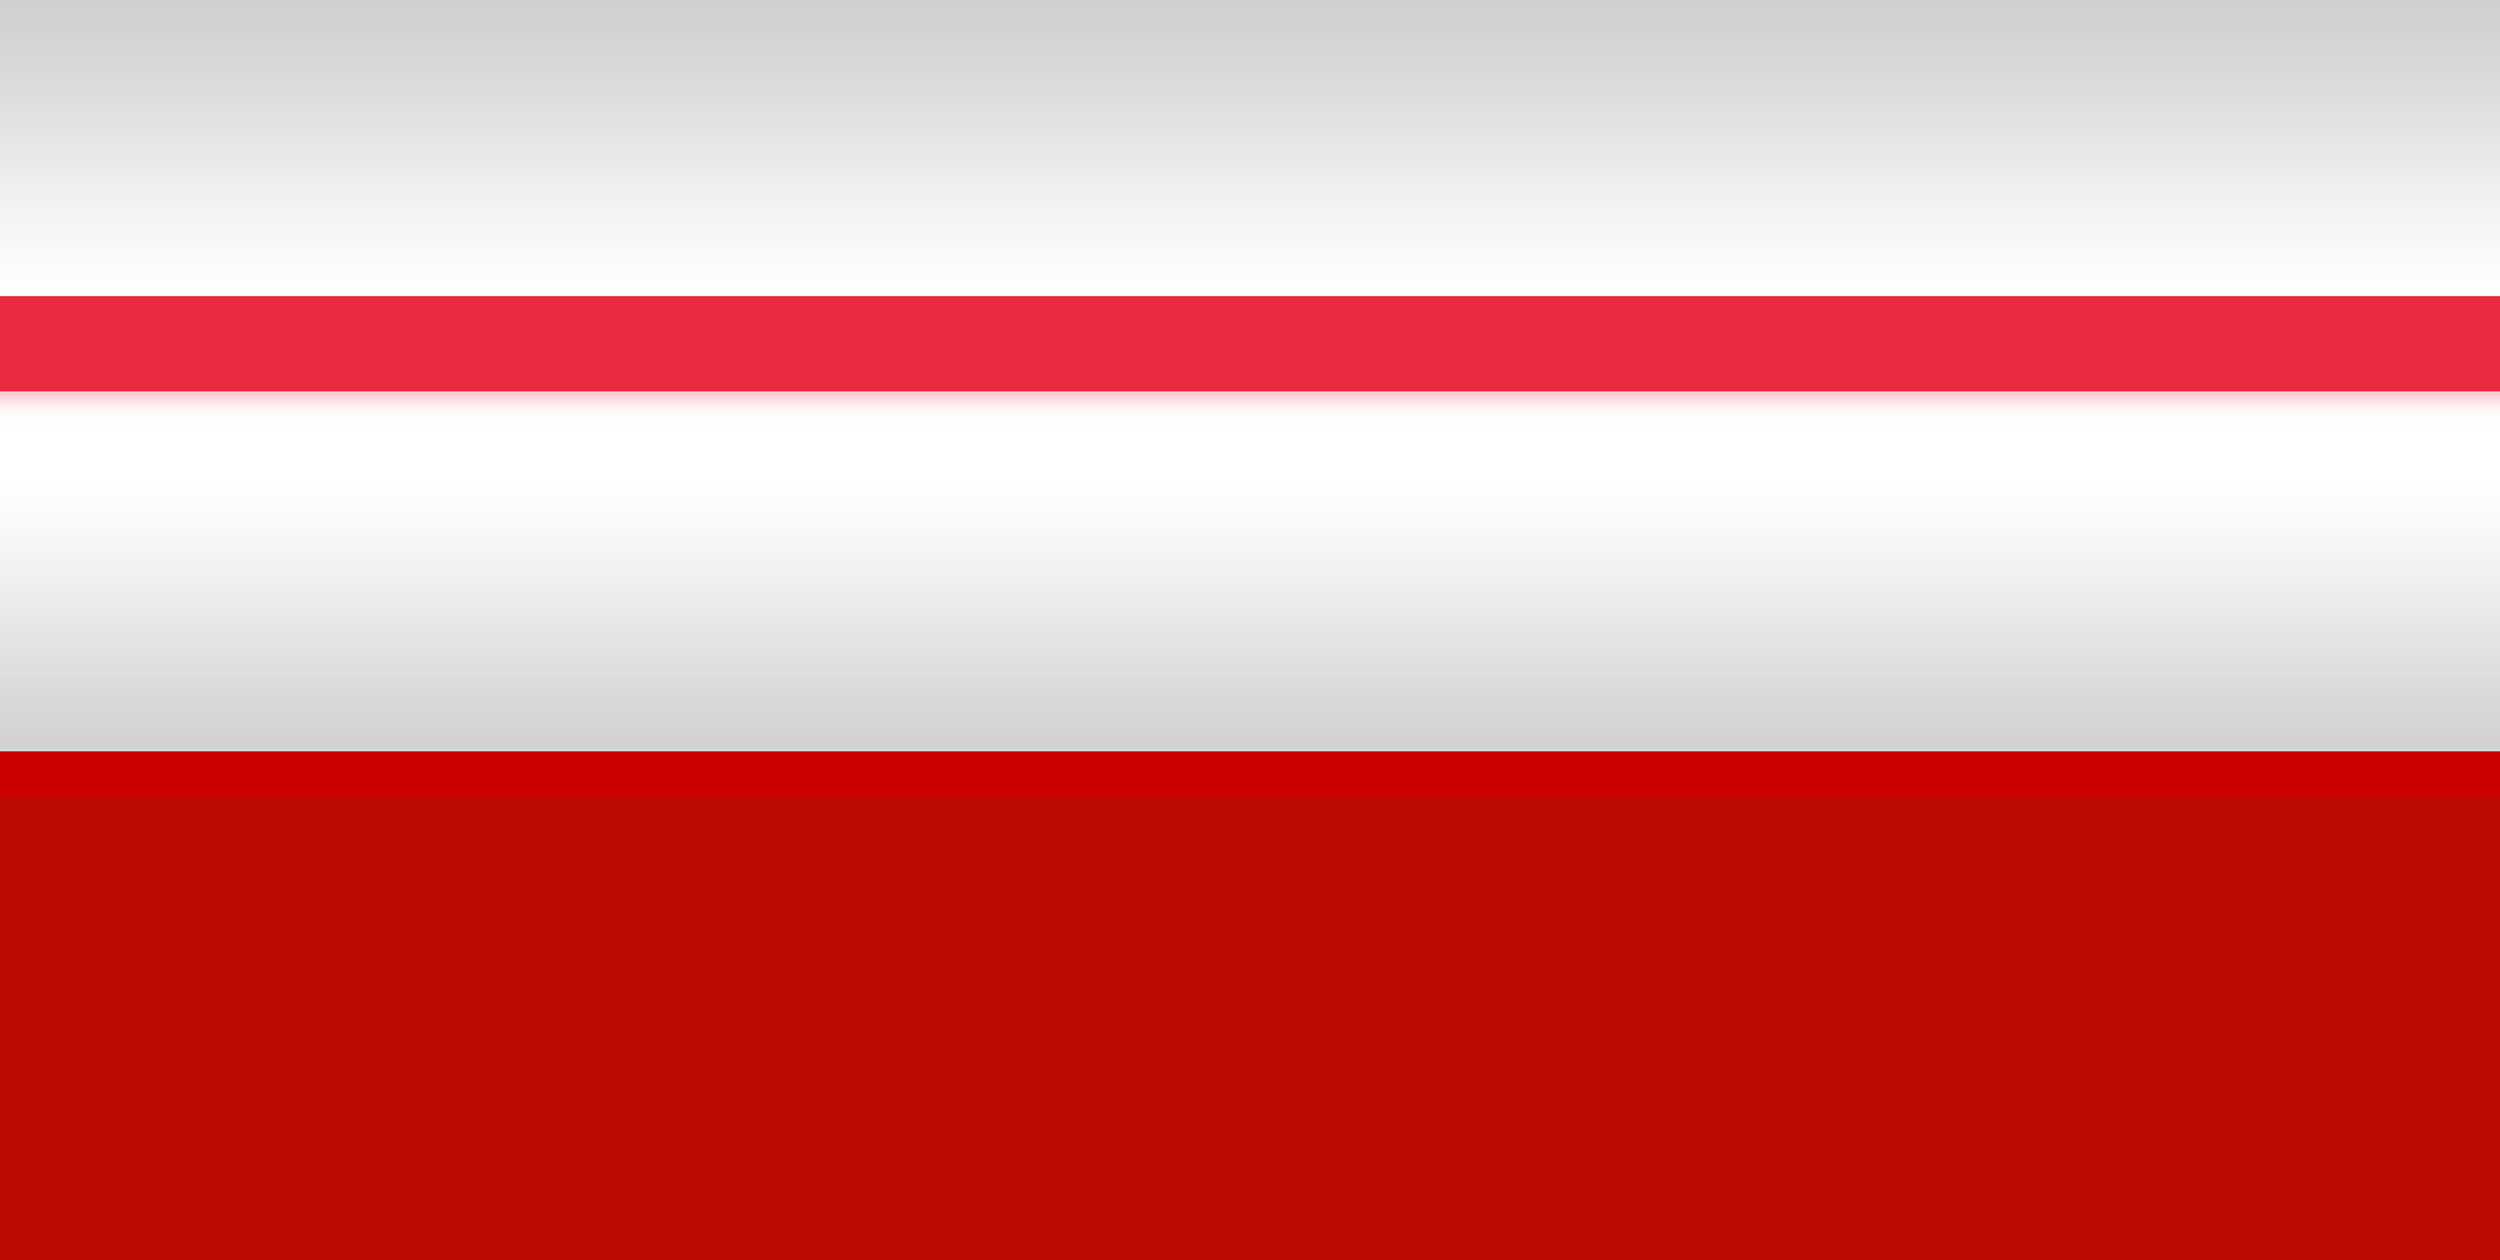
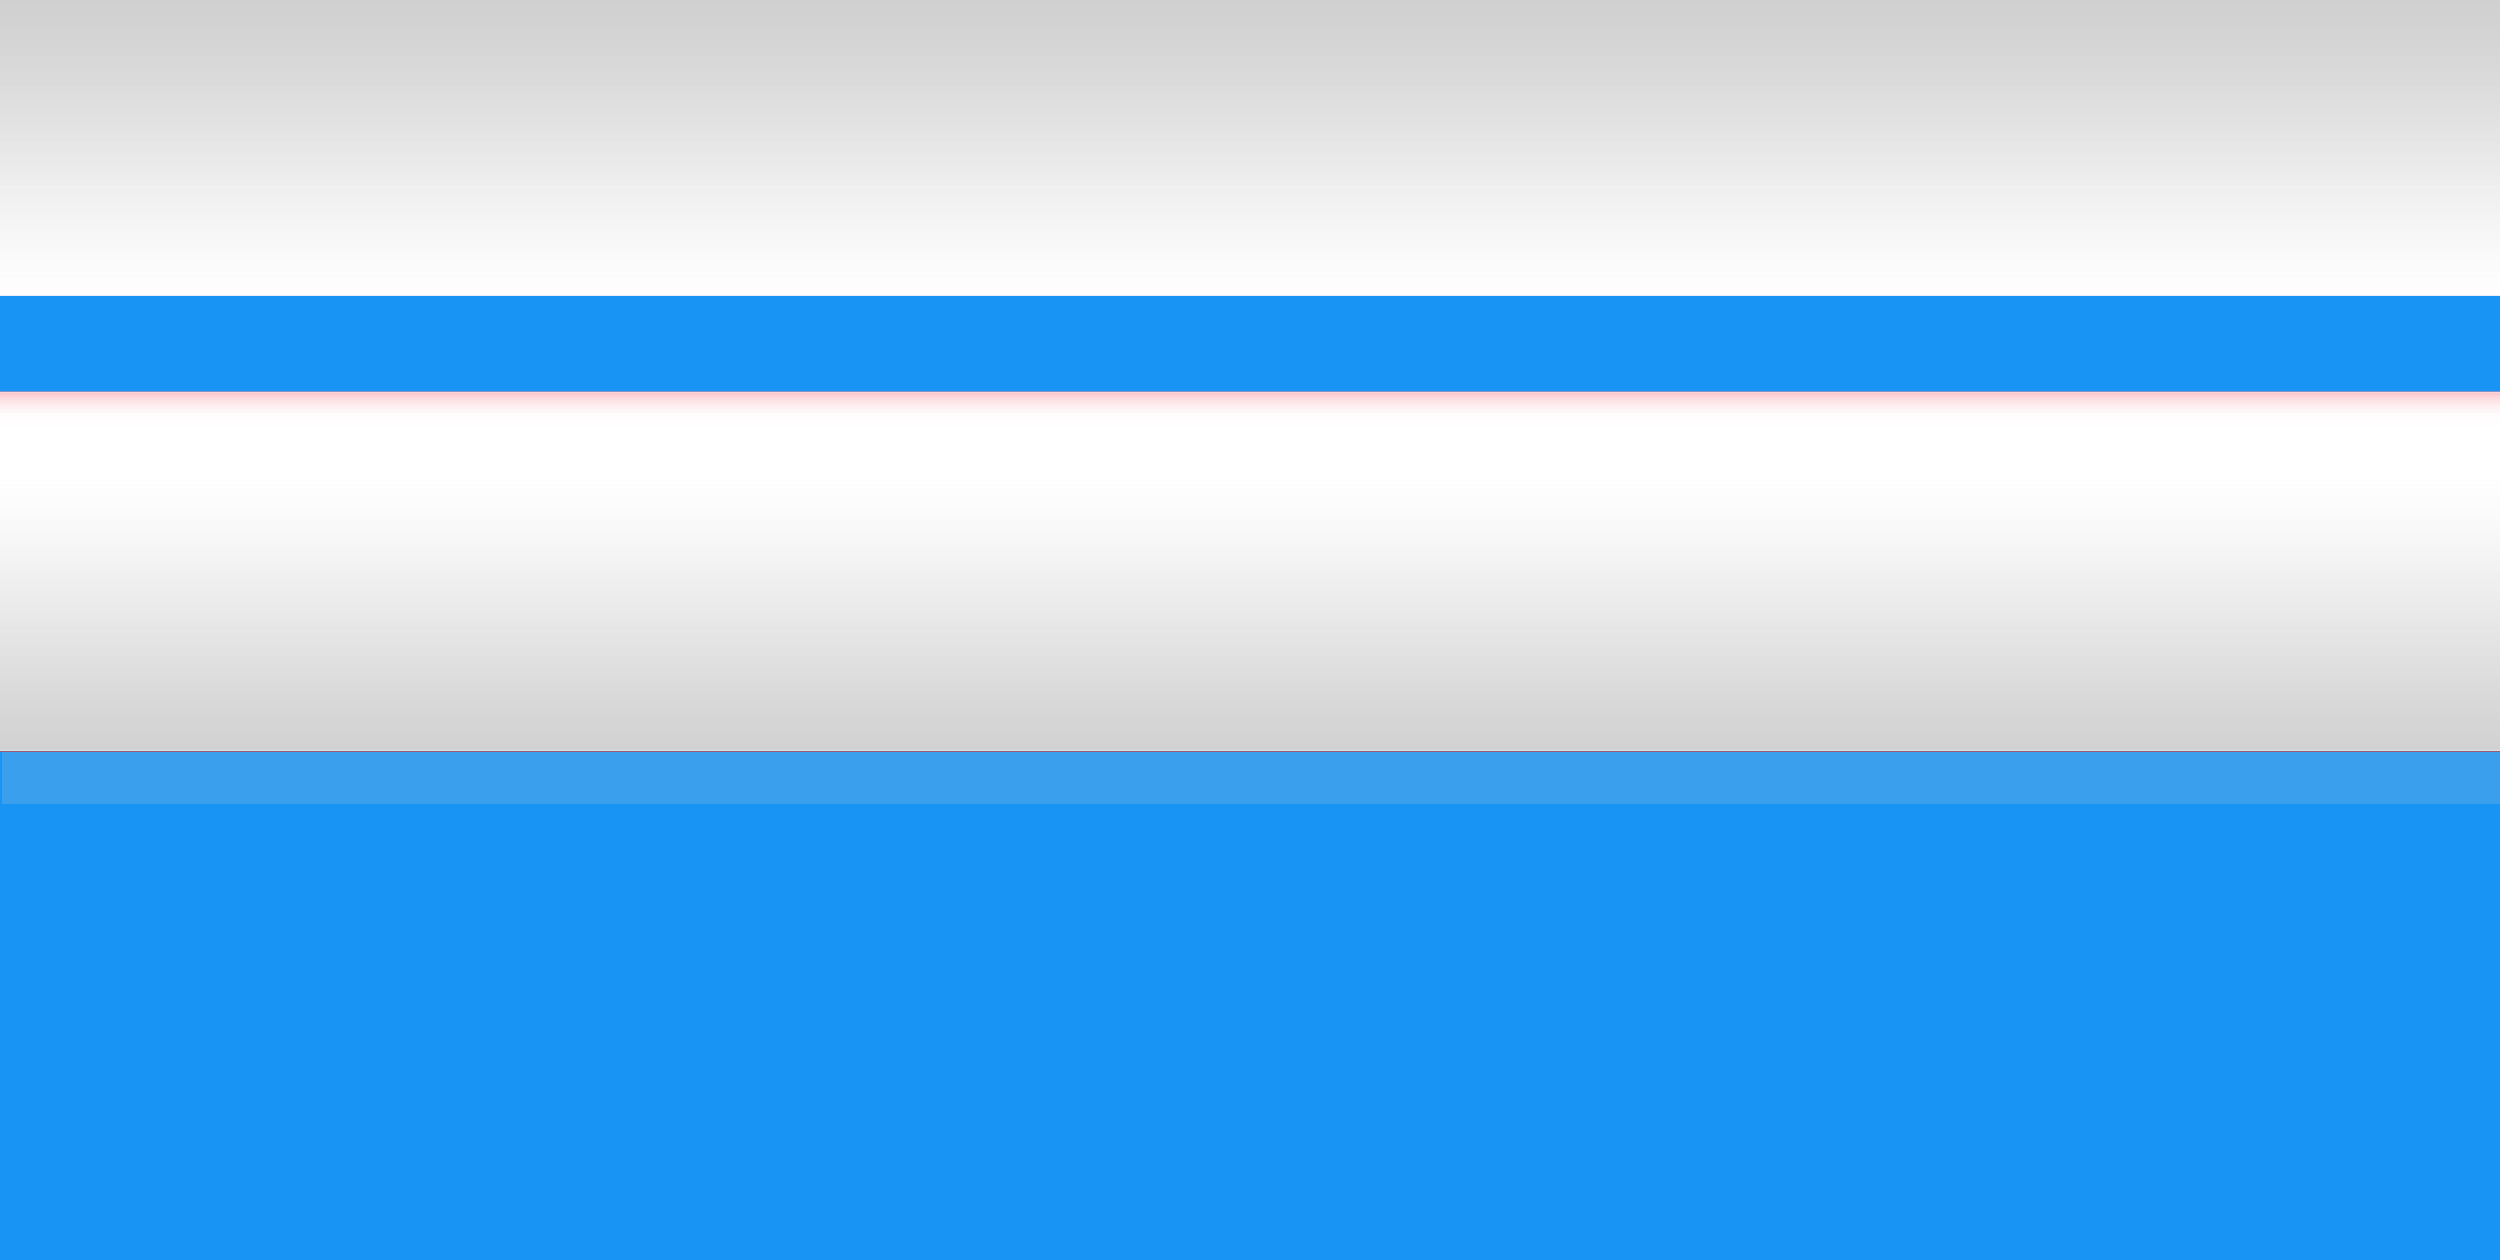
首页展示更改

diff --git a/svision Maven Webapp/src/main/webapp/source/css/global.css b/svision Maven Webapp/src/main/webapp/source/css/global.css
@@ -57,24 +57,24 @@ p {
 }
 /* ============框架============== */
 #main{width:100%;height:auto;margin:0 auto;}
-#header{width:100%;height:90px;margin:0 auto;background-color:#00A2CA;font-size:16px;min-width: 1150px;}
+#header{width:100%;height:90px;margin:0 auto;background-color:#1894f4;font-size:16px;min-width: 1024px;}
 #adminheader{width:100%;height:95px;margin:0 auto;background-color:#00A2CA;font-size:16px;}
-#content{width:100%;height:auto;margin:0 auto; min-width: 1150px;}
-#footer{width:100%;height:29px;background-color:#00A2CA;min-width: 1150px;    text-align: center;
+#content{width:100%;height:auto;margin:0 auto; min-width: 1024px;}
+#footer{width:100%;height:29px;background-color:#00A2CA;min-width: 1024px;    text-align: center;
     line-height: 29px; 
     color: white;} 
 #treeList{width:100%;height:100%;}
 .footer-info{float:left;width:100%;height:28px;line-height:28px;color:#fff;font-size:12px;text-align:center;margin:0;margin-top:1px;padding:0;}
 .con-left{float:left;width:160px;height:100%;background-color:#3A464E;border-top:0px;}
-/*.con-rights{padding:0;margin-left:180px;border-top:1px solid #C3C6CB;}*/
+/*.con-rights{padding:0;margin-left:180px;border-top:1px solid #C3C6CB;}*/  
 .con-rights{padding:0; border-top:0px;   margin-left: 110px;}
 .con-right{padding:5px 5px 0 5px; border-top:0px;  margin-left: 160px;background-color: #FFFFFF;}
-.head-tool-bar{width:100%;height:25px;background-image: initial;background-position-x: initial;background-position-y: initial;background-size: initial; background-repeat-x: initial;background-repeat-y: initial;background-attachment: initial;background-origin: initial;background-clip: initial;background-color: rgb(0, 142, 183);}
+.head-tool-bar{width:100%;height:25px;background-image: initial;background-position-x: initial;background-position-y: initial;background-size: initial; background-repeat-x: initial;background-repeat-y: initial;background-attachment: initial;background-origin: initial;background-clip: initial;background-color: #eb2b42;}
 
 
 /*************广告位**************/
-#slider-container{position:relative;clear:both;height:380px;width:100%;margin:0 auto;} 
+#slider-container{position:relative;clear:both;height:480px;width:100%;margin:0 auto;} 
 #shadow-img-slider{height:5px;width:100%;position:absolute;top:0;left:0;background:url(../images/shadow-img-slider.png) repeat-x;z-index:30;}
-.box_skitter_large {width:100%;height:380px;}
+.box_skitter_large {width:100%;height:480px;}
 .label_skitter{bottom:20px !important;left:17% !important;padding:0px 20px 20px 20px;background:url(../images/opacity-slider-text.png) repeat;}
 .label_skitter h3{margin-bottom:10px;color:#FFFF1E;height:25px;line-height:25px;}

diff --git a/svision Maven Webapp/src/main/webapp/source/css/base.css b/svision Maven Webapp/src/main/webapp/source/css/base.css
@@ -367,7 +367,7 @@
 	height: 530px;
 	margin: 0 auto;
 	position: absolute;
-	top: 50%;
+	top: 43%;
 	margin-top: -16%;
 }
 
@@ -384,8 +384,8 @@
 	height: 410px;
 	margin: 0 auto;
 	background-color: #FFF;
-	border: 1px solid #eb2b42;
-	border-top-color: #eb2b42;
+	border: 1px solid #1894f4;
+	border-top-color: #1894f4;
 	border-radius: 3px;
 	box-shadow: 0 0 5px #4287BA;
 }
@@ -614,7 +614,7 @@
 	line-height: 40px;
 	text-align: center;
 	border: 0;
-	background-color: #bc0a00;
+	background-color: #3a9fed;
 	color: #FFF;
 	font-size: 16px;
 	border-radius: 2px;
@@ -622,7 +622,7 @@
 }
 
 .login-btn:hover {
-	background-color: #bc0a00;;
+	background-color: #bc0a00;
 	box-shadow: 0 0 5px #3BA6F5;
 	cursor: pointer;
 }
@@ -717,8 +717,7 @@
 .head-menu {
 	width: auto;
 	height: 42px;
-	margin-top: 25px;
-	background-color: #00A2CA;
+	background-color: #1894f4;
 }
 
 .head-menu li {
@@ -2377,7 +2376,7 @@
 }
 
 .yw-row .yw-span3 {
-	width: 23.5%;
+	width: 19%;
 }
 
 .yw-row .yw-last {
@@ -3827,7 +3826,7 @@
 }
 #sltModel img:hover{
 	cursor:pointer;
-	border:3px solid red; 
+	border:3px solid #1894f4; 
 	border-raidius:10%;
 }
 #value_table{ 

diff --git a/svision Maven Webapp/src/main/java/com/rmbank/supervision/web/controller/cases/CaseTodoAction.java b/svision Maven Webapp/src/main/java/com/rmbank/supervision/web/controller/cases/CaseTodoAction.java
@@ -1,10 +1,8 @@
-package com.rmbank.supervision.web.controller.vision;
+package com.rmbank.supervision.web.controller.cases;
 
 import java.io.UnsupportedEncodingException;
 import java.net.URLDecoder;
-import java.text.SimpleDateFormat;
 import java.util.ArrayList;
-import java.util.Date;
 import java.util.List;
 
 import javax.annotation.Resource;
@@ -19,7 +17,6 @@ import org.springframework.web.bind.annotation.RequestMapping;
 import com.rmbank.supervision.common.utils.Constants;
 import com.rmbank.supervision.common.utils.IpUtil;
 import com.rmbank.supervision.model.Item;
-import com.rmbank.supervision.model.ItemProcess;
 import com.rmbank.supervision.model.Organ;
 import com.rmbank.supervision.model.User;
 import com.rmbank.supervision.service.ItemService;
@@ -27,15 +24,15 @@ import com.rmbank.supervision.service.UserService;
 import com.rmbank.supervision.web.controller.SystemAction;
 
 /**
- * 效能监察待办事项控制器
+ * 综合管理待办事项控制器
  * @author DELL
  *
  */ 
 
 @Scope("prototype")
 @Controller
-@RequestMapping("/vision")
-public class VisionTodoAction  extends  SystemAction {
+@RequestMapping("/manage")
+public class CaseTodoAction extends SystemAction {
 
 	@Resource
 	private ItemService itemService;
@@ -44,7 +41,7 @@ public class VisionTodoAction  extends  SystemAction {
 	private UserService userService;
 
 	/**
-     * 效能监察待办事项列表展示
+     * 综合管理待办事项列表展示
      *
      * @param request
      * @param response
@@ -52,7 +49,7 @@ public class VisionTodoAction  extends  SystemAction {
 	 * @throws UnsupportedEncodingException 
      */
     @RequestMapping(value = "/todoList.do")
-    @RequiresPermissions("vision/todoList.do")
+    @RequiresPermissions("manage/todoList.do")
     public String efficiencyList(Item item, 
             HttpServletRequest request, HttpServletResponse response) throws UnsupportedEncodingException { 
     	// 判断搜索名是否为空，不为空则转为utf-8编码
